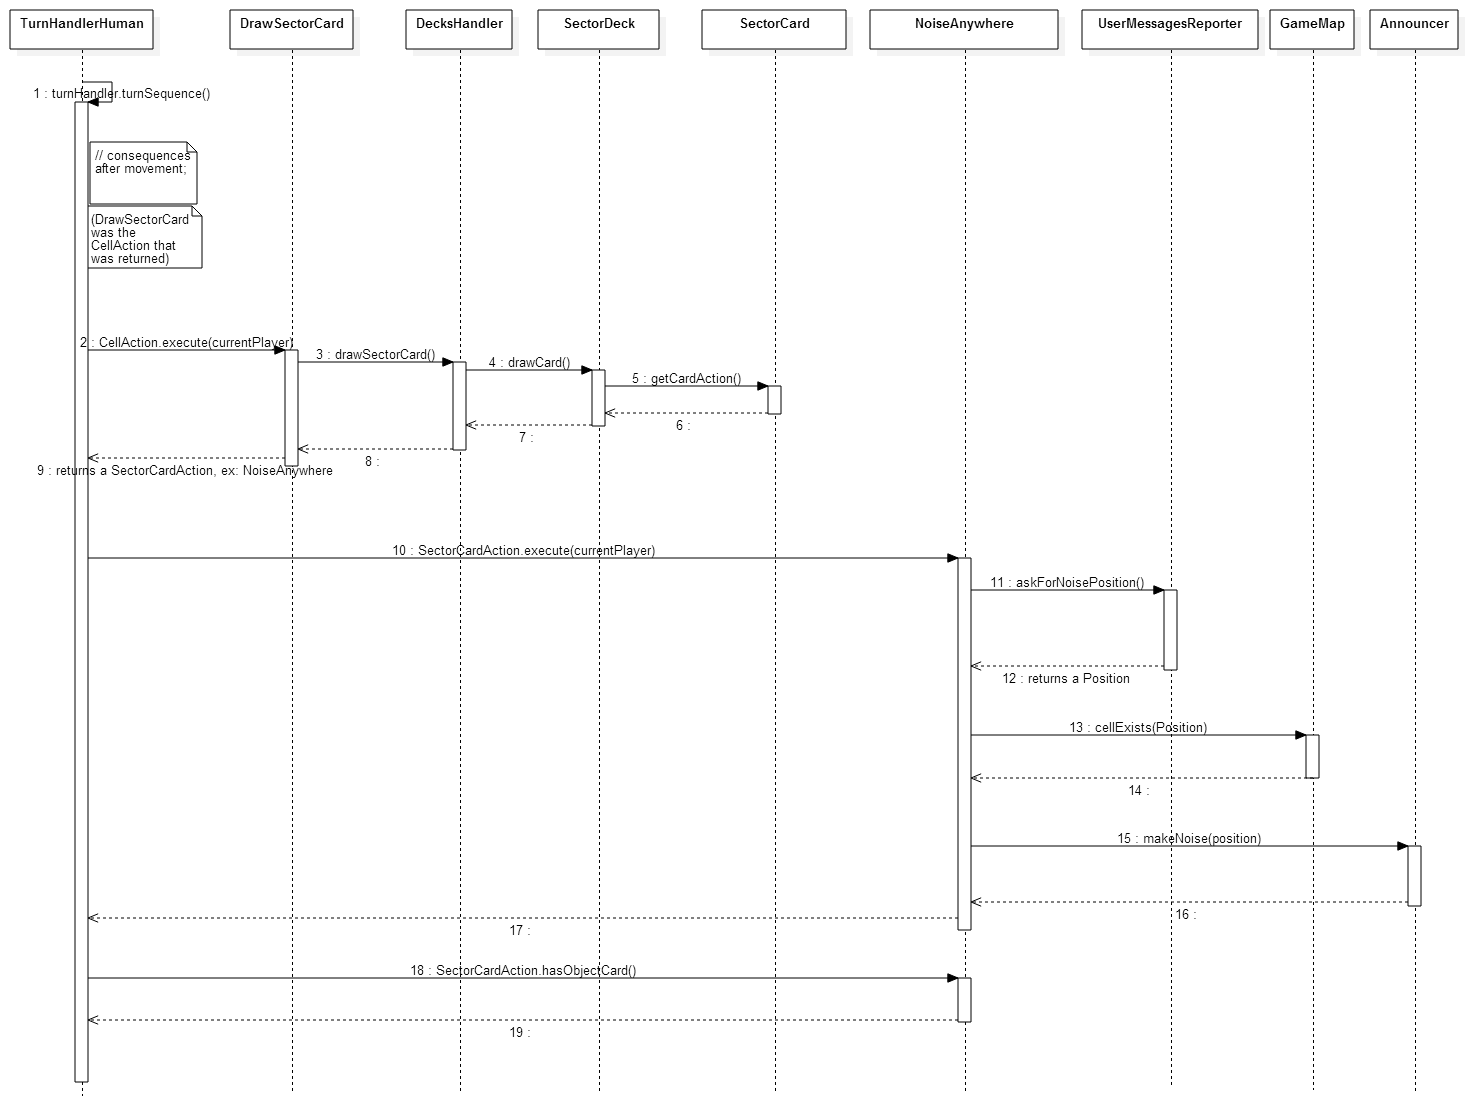
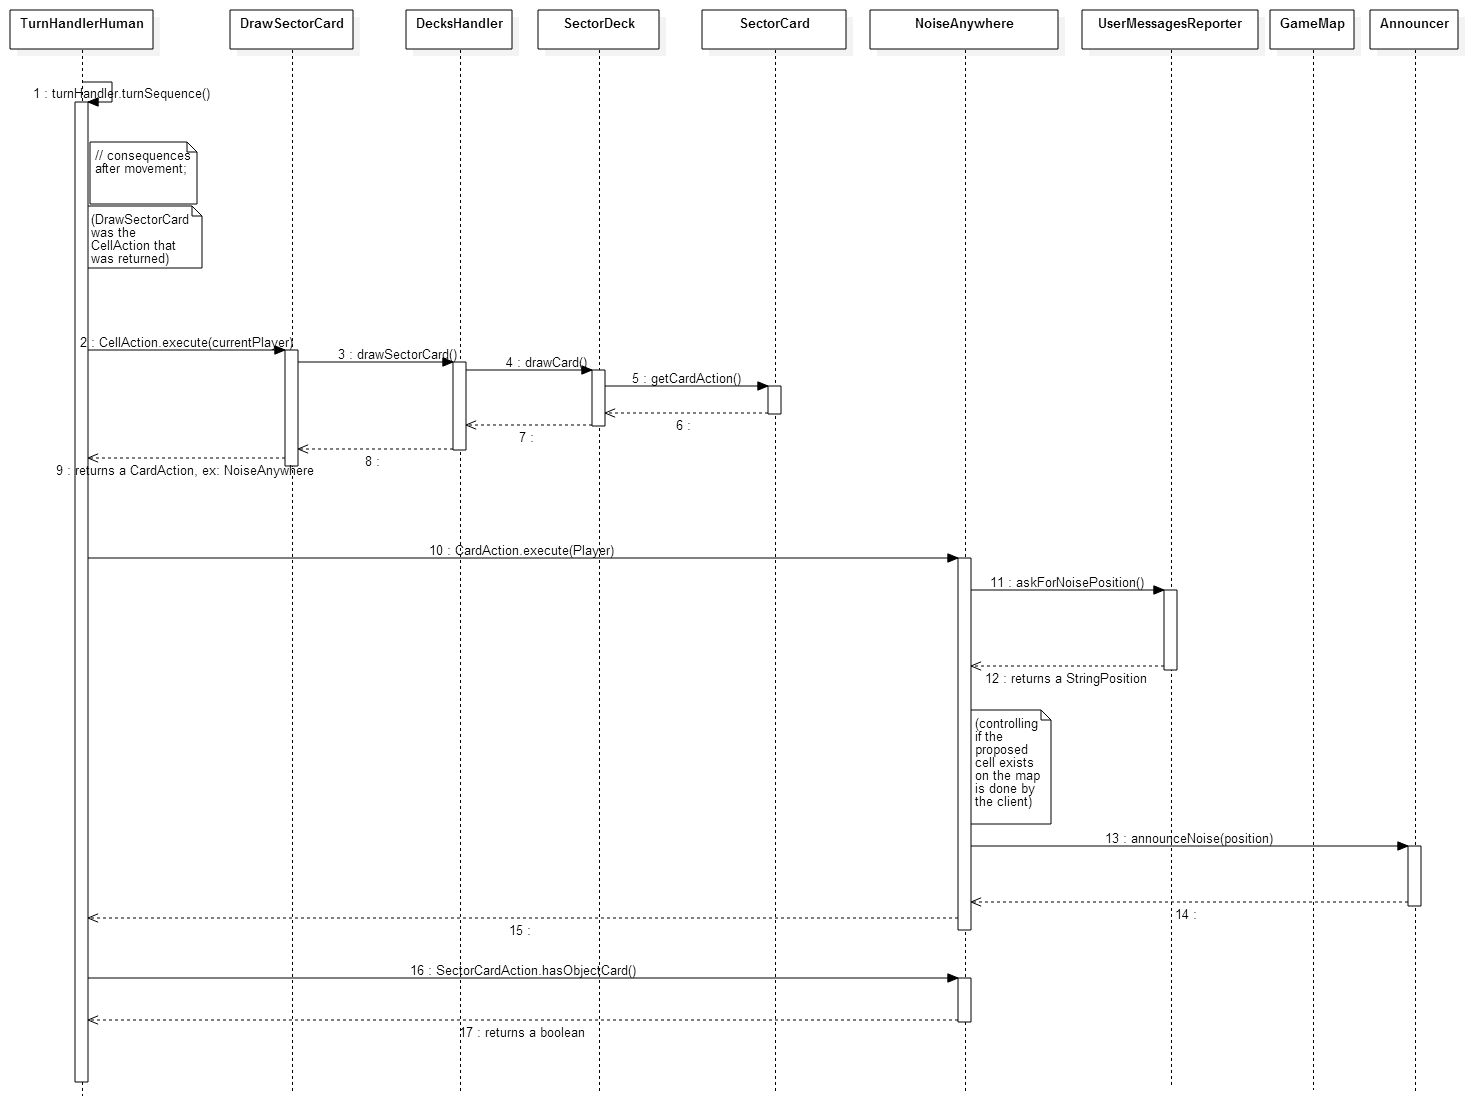
updated turn sequence diagrams; created "[cards/actions]WithObject"

diff --git a/src/main/java/it/escape/server/model/game/cards/NoiseAnywhereCardWithObject.java b/src/main/java/it/escape/server/model/game/cards/NoiseAnywhereCardWithObject.java
@@ -1,0 +1,12 @@
+package it.escape.server.model.game.cards;
+
+import it.escape.server.controller.game.actions.CardAction;
+import it.escape.server.controller.game.actions.cardActions.NoiseAnywhereWithObject;
+
+public class NoiseAnywhereCardWithObject {
+
+	public CardAction getCardAction() {
+		return new NoiseAnywhereWithObject();		
+	}
+	
+}

diff --git a/src/main/java/it/escape/server/model/game/cards/NoiseHereCardWithObject.java b/src/main/java/it/escape/server/model/game/cards/NoiseHereCardWithObject.java
@@ -1,0 +1,12 @@
+package it.escape.server.model.game.cards;
+
+import it.escape.server.controller.game.actions.CardAction;
+import it.escape.server.controller.game.actions.cardActions.NoiseHereWithObject;
+
+public class NoiseHereCardWithObject {
+
+	public CardAction getCardAction() {
+		return new NoiseHereWithObject();
+	}
+	
+}

diff --git a/src/main/java/it/escape/server/model/game/cards/SilenceCardWithObject.java b/src/main/java/it/escape/server/model/game/cards/SilenceCardWithObject.java
@@ -1,0 +1,13 @@
+package it.escape.server.model.game.cards;
+
+import it.escape.server.controller.game.actions.CardAction;
+import it.escape.server.controller.game.actions.cardActions.SilenceWithObject;
+
+public class SilenceCardWithObject {
+
+	public CardAction getCardAction() {
+		return new SilenceWithObject();
+		
+	}
+
+}

diff --git a/src/main/java/it/escape/server/controller/game/actions/cardActions/NoiseAnywhereWithObject.java b/src/main/java/it/escape/server/controller/game/actions/cardActions/NoiseAnywhereWithObject.java
@@ -1,0 +1,9 @@
+package it.escape.server.controller.game.actions.cardActions;
+
+public class NoiseAnywhereWithObject extends NoiseAnywhere {
+
+	@Override
+	public boolean hasObjectCard() {
+		return true;
+	}
+}

diff --git a/src/main/java/it/escape/server/controller/game/actions/cardActions/NoiseHereWithObject.java b/src/main/java/it/escape/server/controller/game/actions/cardActions/NoiseHereWithObject.java
@@ -1,0 +1,10 @@
+package it.escape.server.controller.game.actions.cardActions;
+
+public class NoiseHereWithObject extends NoiseHere {
+
+	@Override
+	public boolean hasObjectCard() {
+		return true;
+	}
+	
+}

diff --git a/src/main/java/it/escape/server/controller/game/actions/cardActions/SilenceWithObject.java b/src/main/java/it/escape/server/controller/game/actions/cardActions/SilenceWithObject.java
@@ -1,0 +1,10 @@
+package it.escape.server.controller.game.actions.cardActions;
+
+public class SilenceWithObject extends Silence {
+
+	@Override
+	public boolean hasObjectCard() {
+		return true;
+	}
+	
+}
